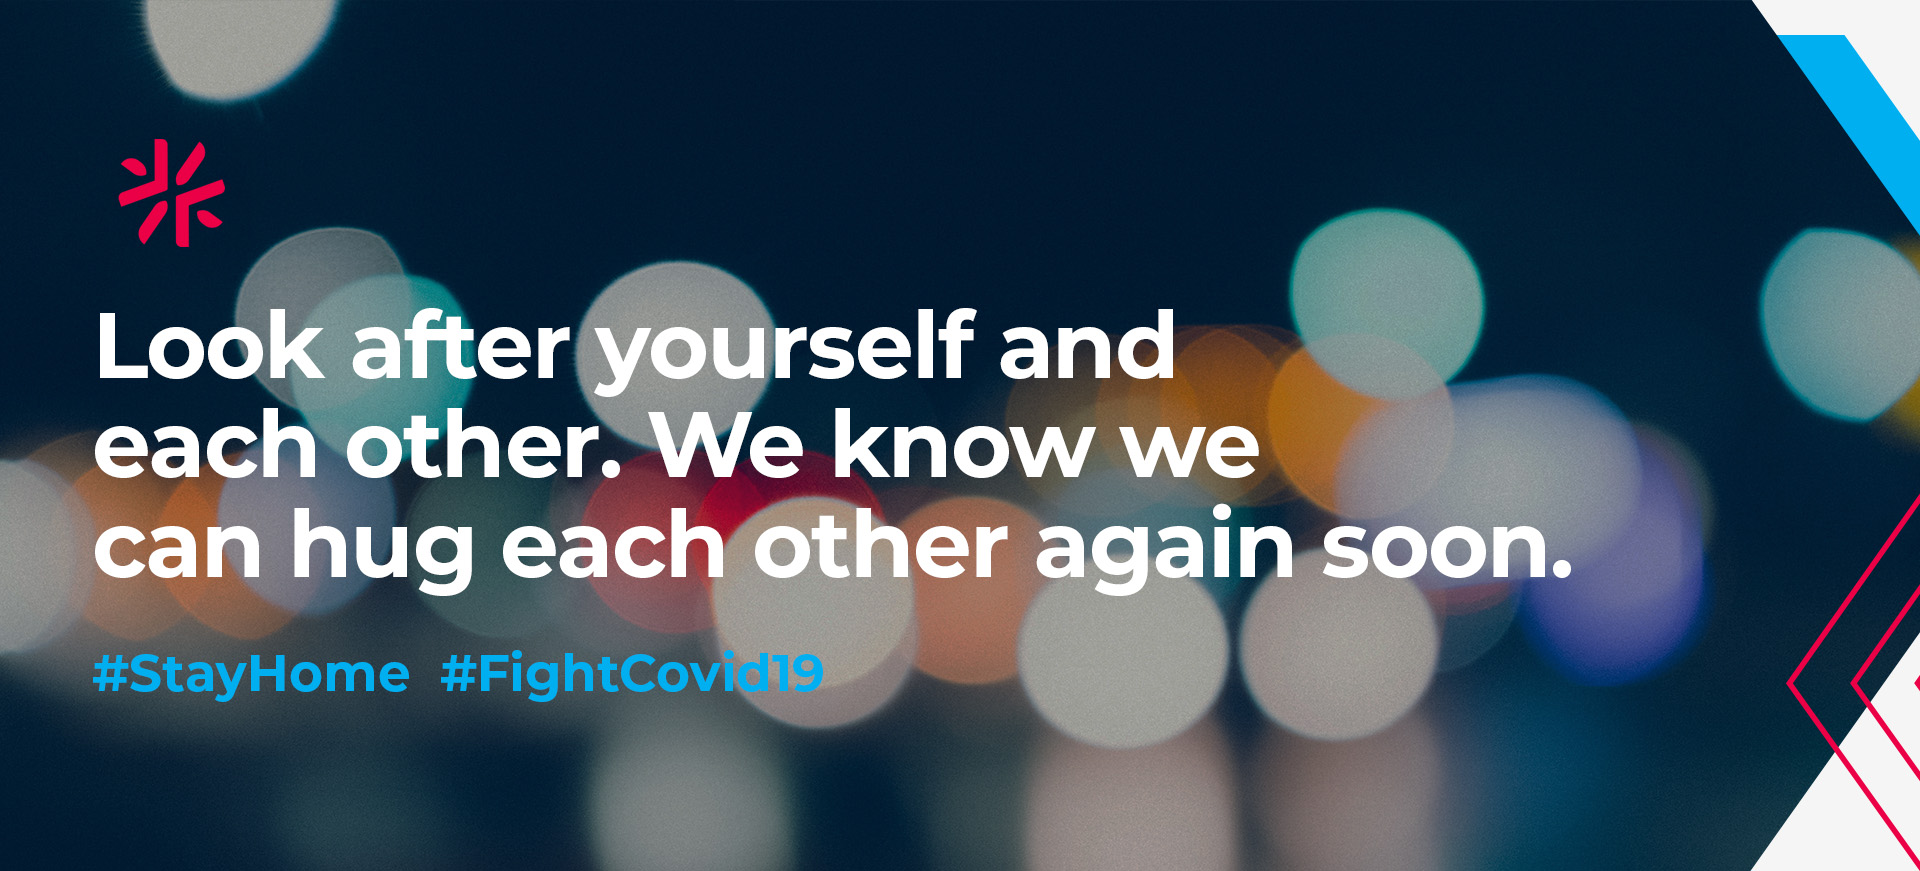
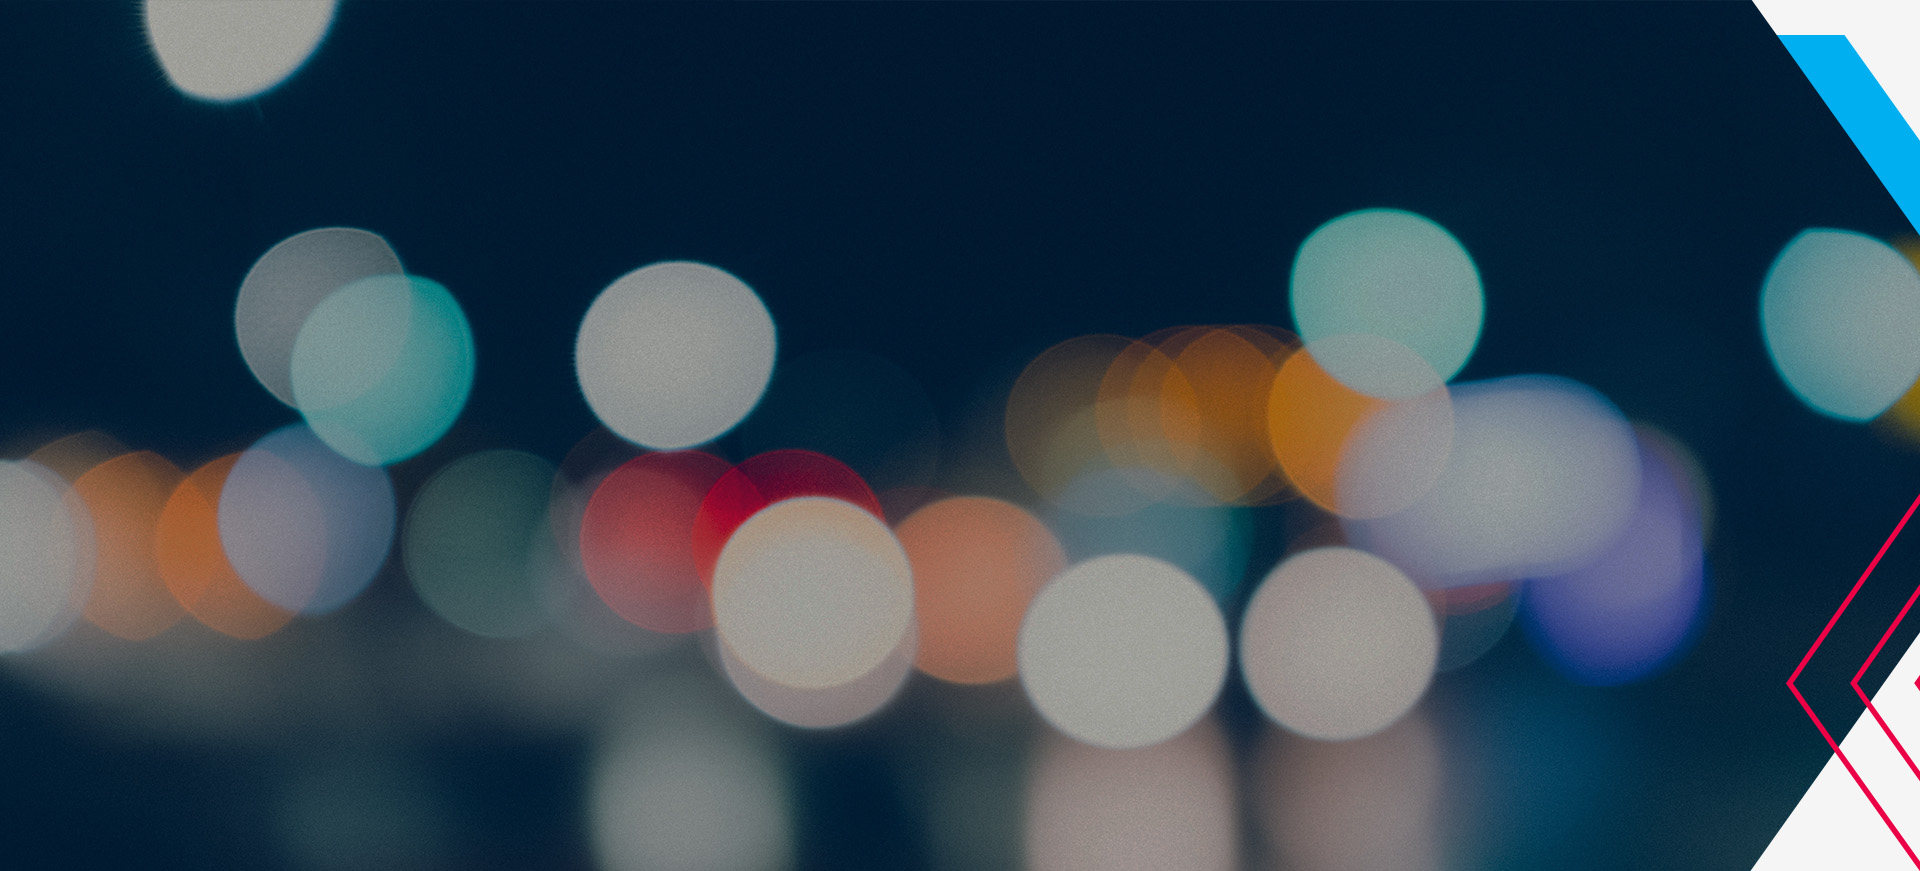
Top home section tranform to carousel and add second slide.

diff --git a/src/app/home/home.component.scss b/src/app/home/home.component.scss
@@ -3,44 +3,134 @@ $steelgrey: #f1f1f1;
 $skyblue: #00aff0;
 
 .home {
-  width: 100%;
-  height: 100vh;
-  background: url("../../assets/images/home/GPN Web Images 01.jpg") no-repeat;
-  background-size: cover;
-  background-position: center;
-  background-position-y: 100%;
-  padding: 15px 25px 70px 25px;
+  .carousel {
+    height: 100vh;
 
-  .home-body {
-    height: 100%;
-    margin-bottom: 25px;
+    .carousel-inner {
+      .carousel-item {
+        .item-1 {
+          width: 100%;
+          height: 100vh;
+          background: url("../../assets/images/home/GPN Web Images 01.jpg")
+            no-repeat;
+          background-size: cover;
+          background-position: center;
+          background-position-y: 100%;
+          padding: 15px 25px 70px 25px;
 
-    .content {
-      width: 40%;
-      text-align: left;
+          .body {
+            height: 100%;
+            margin-bottom: 25px;
 
-      h1 {
-        color: black;
-        font-size: 3rem;
-      }
+            .content {
+              width: 40%;
+              text-align: left;
 
-      h3 {
-        color: white;
-        margin-bottom: 50px;
-      }
+              h1 {
+                color: black;
+                font-size: 3rem;
+              }
 
-      button {
-        width: 50%;
-        padding: 10px;
-        background-color: $sparkred;
-        border: 1px solid $sparkred;
-        border-radius: 0;
-        color: white;
-        position: relative;
+              h3 {
+                color: white;
+                margin-bottom: 50px;
+              }
+
+              button {
+                width: 50%;
+                padding: 10px;
+                background-color: $sparkred;
+                border: 1px solid $sparkred;
+                border-radius: 0;
+                color: white;
+                position: relative;
+              }
+            }
+          }
+        }
+
+        .item-2 {
+          width: 100%;
+          height: 100vh;
+          background: url("../../assets/images/home/GP Nagata Web Covid.jpg")
+            no-repeat;
+          background-size: cover;
+          background-position: center;
+          background-position-y: 100%;
+          padding: 15px 25px 70px 25px;
+
+          .body {
+            height: 100%;
+            margin-bottom: 25px;
+
+            .content {
+              width: 100%;
+              text-align: left;
+
+              img {
+                width: 7.5%;
+                margin-bottom: 15px;
+              }
+
+              h1 {
+                color: white;
+                font-size: 4.5rem;
+                margin-bottom: 0px;
+              }
+
+              h3 {
+                margin-top: 25px;
+                color: $skyblue;
+                margin-bottom: 50px;
+                font-size: 3rem;
+              }
+            }
+          }
+        }
       }
     }
   }
 }
+
+// .home {
+//   width: 100%;
+//   height: 100vh;
+//   background: url("../../assets/images/home/GPN Web Images 01.jpg") no-repeat;
+//   background-size: cover;
+//   background-position: center;
+//   background-position-y: 100%;
+//   padding: 15px 25px 70px 25px;
+
+//   .home-body {
+//     height: 100%;
+//     margin-bottom: 25px;
+
+//     .content {
+//       width: 40%;
+//       text-align: left;
+
+//       h1 {
+//         color: black;
+//         font-size: 3rem;
+//       }
+
+//       h3 {
+//         color: white;
+//         margin-bottom: 50px;
+//       }
+
+//       button {
+//         width: 50%;
+//         padding: 10px;
+//         background-color: $sparkred;
+//         border: 1px solid $sparkred;
+//         border-radius: 0;
+//         color: white;
+//         position: relative;
+//       }
+//     }
+//   }
+// }
 
 .about {
   background-color: $steelgrey;
@@ -131,14 +221,47 @@ $skyblue: #00aff0;
 
 @media only screen and (max-width: 768px) {
   .home {
-    background-position-x: 40%;
+    .carousel {
+      .carousel-inner {
+        .carousel-item {
+          .item-1 {
+            background-position-x: 40%;
+            .body {
+              .content {
+                width: 100%;
 
-    .home-body {
-      .content {
-        width: 100%;
+                h1 {
+                  font-size: 2.5rem;
+                }
 
-        h1 {
-          font-size: 2.5rem;
+                h3 {
+                  margin-bottom: 50px;
+                }
+              }
+            }
+          }
+
+          .item-2 {
+            .body {
+              align-items: center !important;
+
+              .content {
+                width: 100%;
+
+                img {
+                  width: 15%;
+                }
+
+                h1 {
+                  font-size: 2rem;
+                }
+
+                h3 {
+                  font-size: 1.5rem;
+                }
+              }
+            }
+          }
         }
       }
     }

diff --git a/src/app/home/home.component.html b/src/app/home/home.component.html
@@ -1,5 +1,82 @@
 <section id="home" class="home">
   <div
+    id="carouselExampleIndicators"
+    class="carousel slide"
+    data-ride="carousel"
+  >
+    <ol class="carousel-indicators">
+      <li
+        data-target="#carouselExampleIndicators"
+        data-slide-to="0"
+        class="active"
+      ></li>
+      <li data-target="#carouselExampleIndicators" data-slide-to="1"></li>
+    </ol>
+    <div class="carousel-inner">
+      <div class="carousel-item active">
+        <div class="item-1">
+          <div
+            class="container body d-flex flex-row flex-wrap justify-content-end align-items-center"
+          >
+            <div
+              class="content d-flex flex-column flex-wrap justify-content-center"
+            >
+              <h1>
+                Build The Solution<br />
+                Making City and<br />
+                People Connected.
+              </h1>
+              <h3>#WeSparkAction</h3>
+              <button class="btn btn-outline-primary" routerLink="/about">
+                Let's collaborate?
+              </button>
+            </div>
+          </div>
+        </div>
+      </div>
+      <div class="carousel-item">
+        <div class="item-2">
+          <div
+            class="container body d-flex flex-row flex-wrap justify-content-start align-items-end"
+          >
+            <div
+              class="content d-flex flex-column flex-wrap justify-content-center"
+            >
+              <img src="../../assets/images/icon.png" />
+              <h1>
+                Look after yourself and<br />
+                each other. We know we<br />
+                can hug each other again soon.
+              </h1>
+              <h3>#StayHome #FightCovid19</h3>
+            </div>
+          </div>
+        </div>
+      </div>
+    </div>
+    <a
+      class="carousel-control-prev"
+      href="#carouselExampleIndicators"
+      role="button"
+      data-slide="prev"
+    >
+      <span class="carousel-control-prev-icon" aria-hidden="true"></span>
+      <span class="sr-only">Previous</span>
+    </a>
+    <a
+      class="carousel-control-next"
+      href="#carouselExampleIndicators"
+      role="button"
+      data-slide="next"
+    >
+      <span class="carousel-control-next-icon" aria-hidden="true"></span>
+      <span class="sr-only">Next</span>
+    </a>
+  </div>
+</section>
+
+<!-- <section id="home" class="home">
+  <div
     class="container home-body d-flex flex-row flex-wrap justify-content-end align-items-center"
   >
     <div class="content d-flex flex-column flex-wrap justify-content-center">
@@ -14,7 +91,7 @@
       </button>
     </div>
   </div>
-</section>
+</section> -->
 
 <section id="about" class="about">
   <div class="col-md-12 about-body d-flex flex-row flex-wrap p-0">
